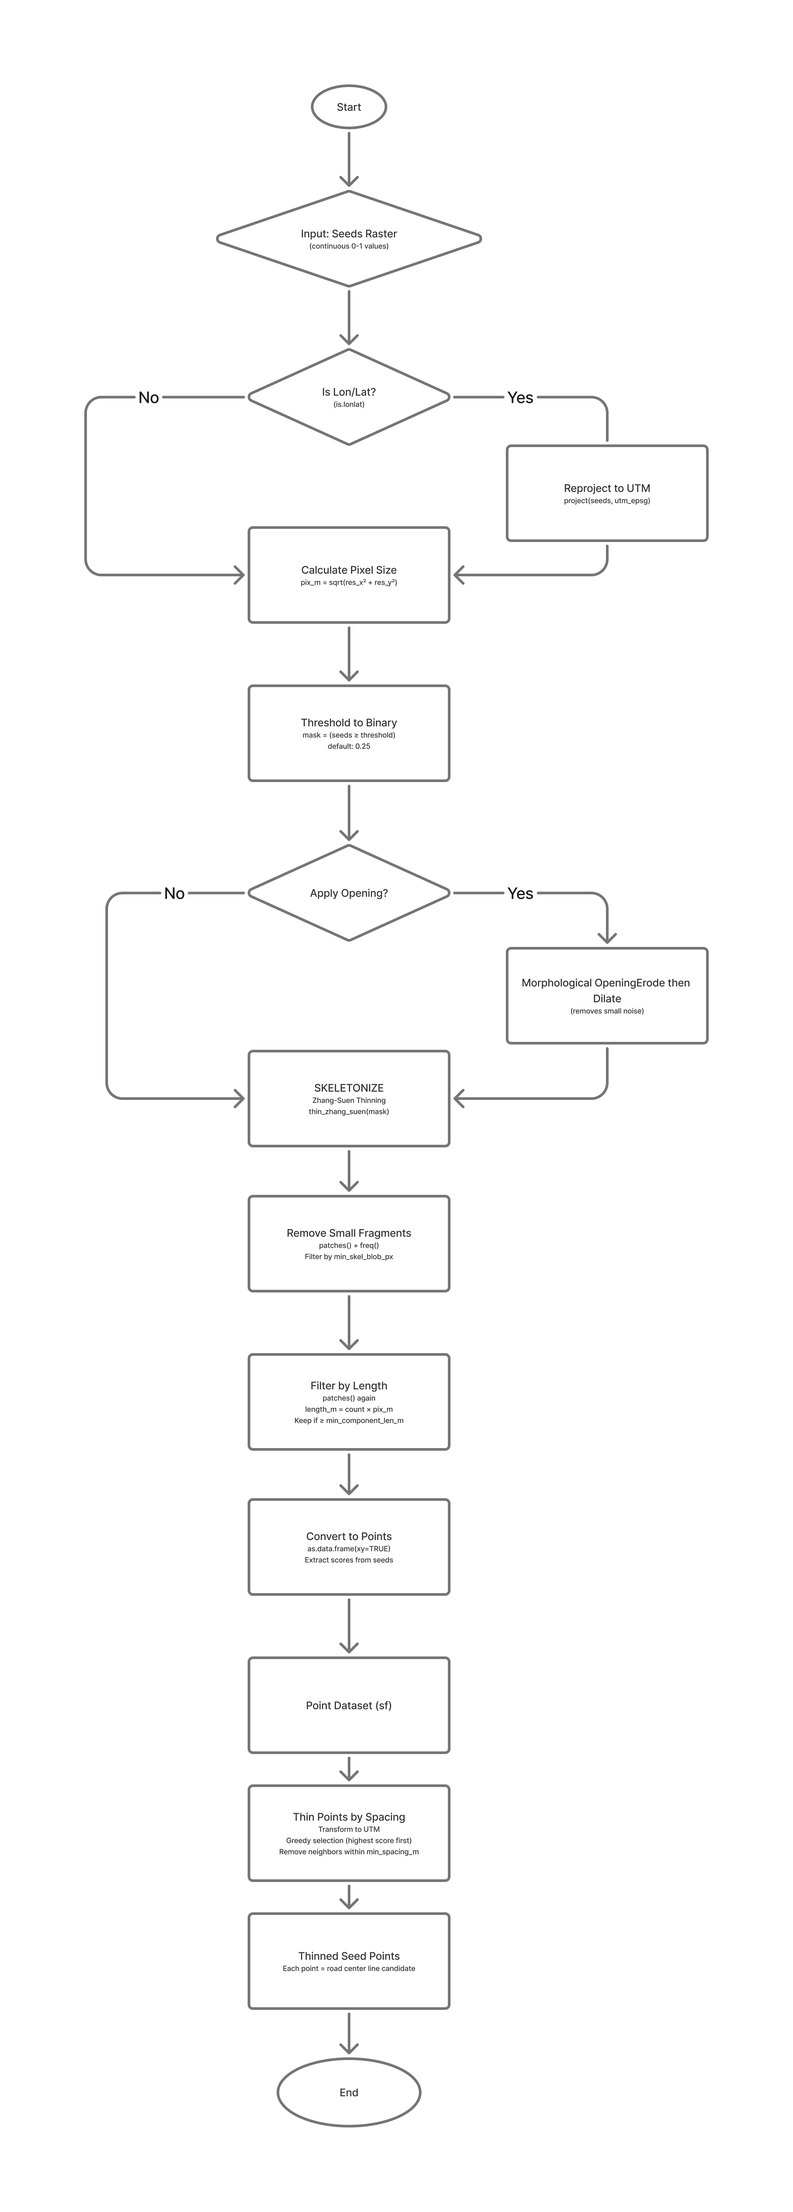
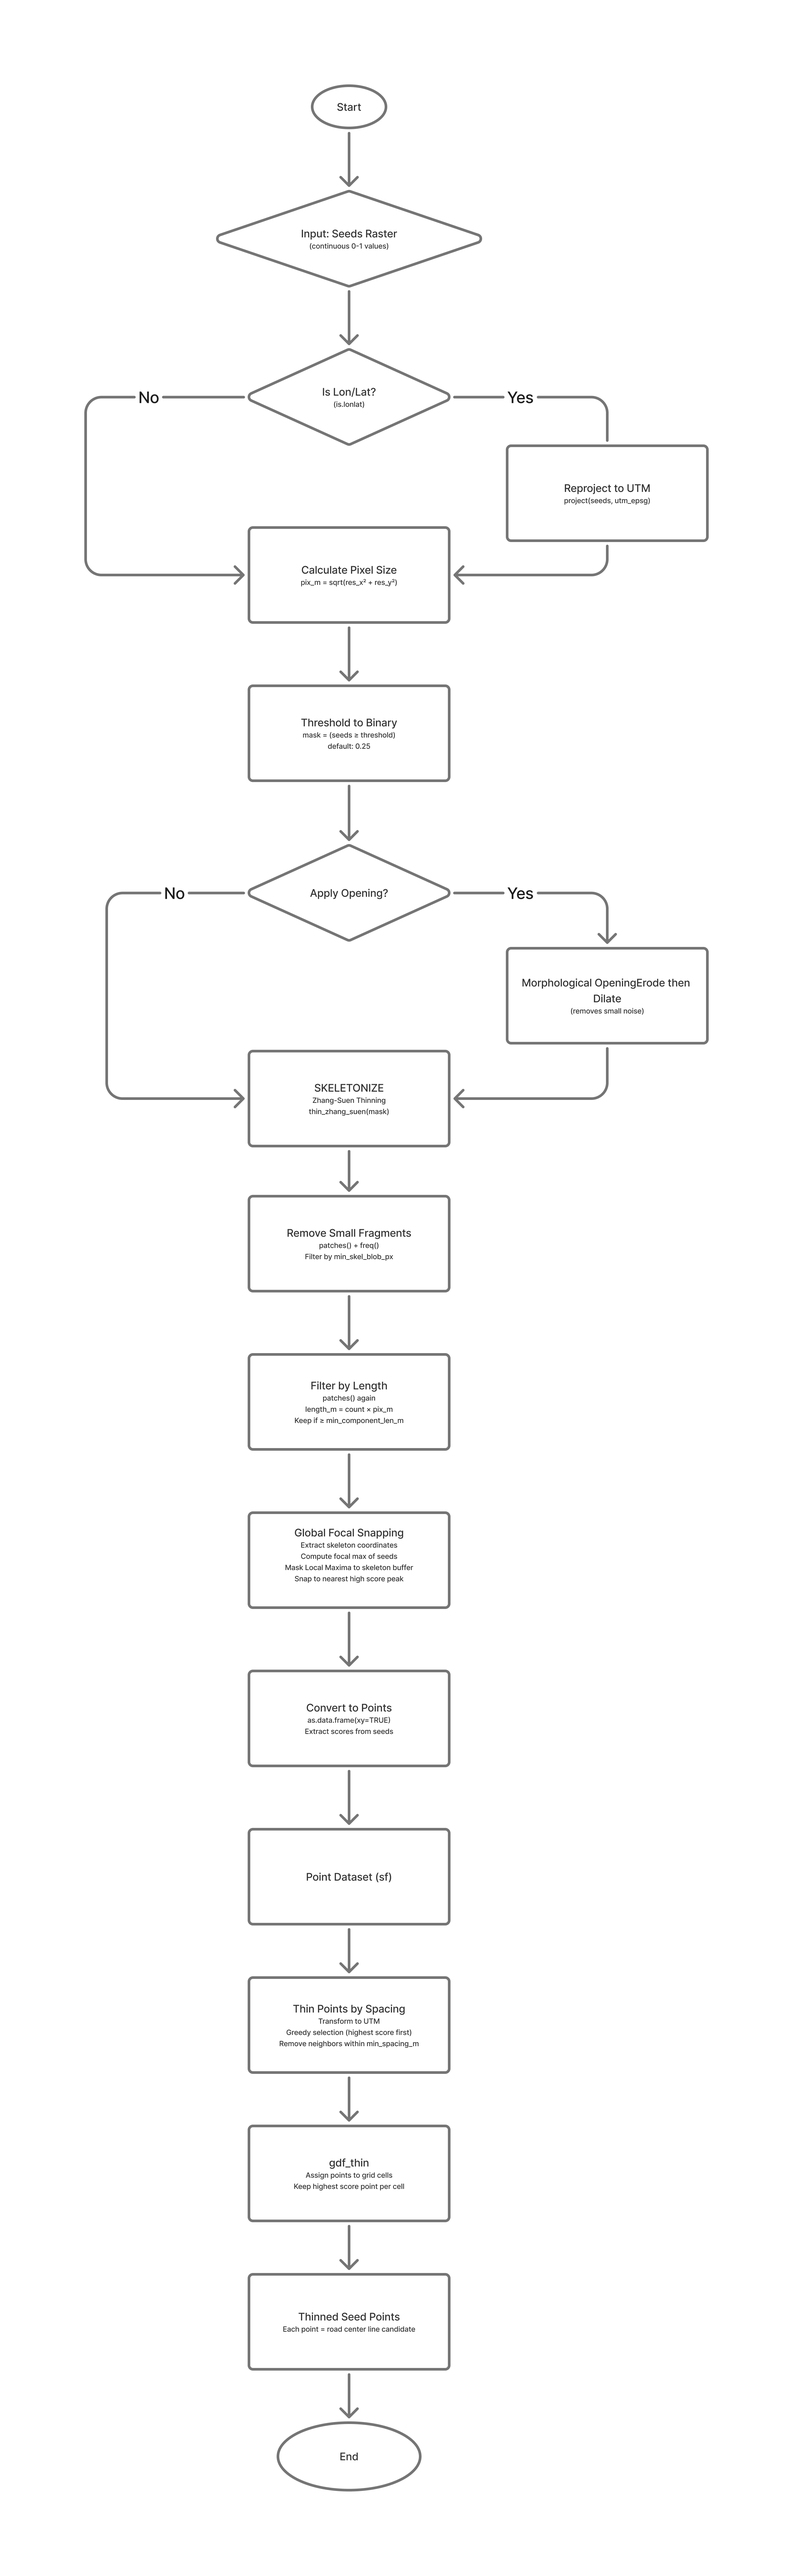
Update reame.md for current RasterToVector process

diff --git a/README.md b/README.md
@@ -72,19 +72,6 @@ project/
 ```
 
 ---
-
-### Configuration for createSeeds.R
-
-Edit the top of `createSeeds.R` to set your paths and input file:
-
-```r
-dir.in   <- "path/to/input"
-dir.out  <- "path/to/output"
-dir.tmp  <- "path/to/tmp"
-file_name <- "your_dem.tif"
-```
-
----
 ### Output from createSeeds.R
 
 `seeds_combined.tif` — a single-band raster co-registered with the input DEM, with pixel values in [0, 1] representing road likelihood. Higher values indicate stronger convergent evidence of road presence across slope, roughness, and curvature edge features.
@@ -92,45 +79,59 @@ file_name <- "your_dem.tif"
 
 ## Stage 2 — Raster to Vector (`RasterToVector.R`)
 
-Converts the `seeds` probability raster into a **thinned set of georeferenced seed points** (GeoJSON) suitable for use as inputs to least-cost path analysis or manual digitizing. The core function is `seeds_to_points()`.
+Converts the `seeds` probability raster into a **thinned set of georeferenced seed points** (GeoJSON) that are snapped to true road-centre peaks. These points serve as start/end node candidates for subsequent least-cost path analysis. The core function is `seeds_to_points()`.
 
 ### Workflow
 ![RasterToVector workflow diagram](images/rasterToVector.png)
 
 ### Theory
 
-#### Thresholding & Binary Mask
+#### 1. Thresholding & Binary Mask
 
-The continuous seed surface is binarized at a user-defined `prob_threshold` (default 0.3). Pixels at or above this value are treated as candidate road pixels. An optional morphological **opening** (erosion followed by dilation) can be applied to remove isolated noise pixels before skeletonization.
+The continuous seed surface is binarized at a user-defined `prob_threshold`. Pixels at or above this value are treated as candidate road pixels. An optional morphological **opening** (erosion via `focal min` followed by dilation via `focal max`) can be applied to remove isolated noise pixels before skeletonization.
 
-#### Skeletonization (Zhang-Suen Thinning)
+#### 2. Skeletonization (Zhang-Suen Thinning)
 
-The binary road mask is reduced to a **1-pixel-wide skeleton** using the Zhang-Suen iterative thinning algorithm (sourced from `skeletonize.R`). This collapses road polygons to their centrelines, ensuring that downstream point sampling captures road position rather than road width.
+The binary road mask is reduced to a **1-pixel-wide skeleton** using the Zhang-Suen iterative thinning algorithm (sourced from `skeletonize.R`). This collapses road-width blobs to their centrelines, ensuring that downstream point sampling captures road position rather than road width.
 
-#### Connected Component Filtering
+#### 3. Connected Component Filtering
 
-The skeleton is labelled into 8-connected components. Two filters are applied sequentially:
+The skeleton is labelled into 8-connected components via `terra::patches()`. Two filters are applied sequentially:
 
-1. **Minimum blob size** (`min_skel_blob_px`): removes isolated skeleton pixels likely caused by noise.
-2. **Minimum component length** (`min_component_len_m`): removes short skeleton fragments unlikely to represent actual roads. Component length is estimated as pixel count × pixel diagonal (in metres).
+1. **Minimum blob size** (`min_skel_blob_px`): removes isolated skeleton pixels caused by noise.
+2. **Minimum component length** (`min_component_len_m`): removes short fragments unlikely to represent actual roads. Length is estimated as `pixel count × pixel diagonal (m)`.
 
-#### Score-Weighted Point Thinning
+#### 4. Global Focal Snapping
 
-Skeleton pixels are converted to point geometries and each point is assigned the corresponding seed score from the original raster. Points are then **greedily thinned** to a minimum spacing of `min_spacing_m` metres: points are processed in descending score order, and any neighbour within the spacing radius is suppressed. This produces a spatially distributed set of high-confidence seed points using a fixed-radius nearest-neighbour index (`dbscan::frNN`) for efficiency.
+Raw skeleton pixels sit on the thinned centreline of the *thresholded mask*, which may not coincide with the highest-probability pixel (the true road centre) in the original `seeds` raster. Snapping corrects this:
+
+1. A focal maximum filter is applied to the full `seeds` raster with a window of `(snap_radius × 2) + 1` pixels, identifying local intensity peaks.
+2. Local maxima are masked to a buffer around the skeleton (radius = `snap_radius + 1` pixels) to restrict the search space and keep RAM usage low.
+3. Each skeleton point is matched to its nearest local maximum using `RANN::nn2()`, shifting it onto the highest-confidence road-centre pixel within the search window.
+
+This produces `xy_snapped` — skeleton-derived points relocated to true road peaks — which are used as the candidate start/end nodes for path routing.
+
+#### 5. Grid-Based Greedy Thinning
+
+To produce a spatially uniform set of seed nodes, points are thinned using a **grid-cell approach**:
+
+1. All snapped points are projected to UTM (EPSG:32610) for metric coordinates.
+2. Each point is assigned to a grid cell of size `min_spacing_m × min_spacing_m` metres using `floor(x / min_spacing_m)`.
+3. Within each cell, only the point with the **highest seed score** is retained.
+
+This is equivalent to greedy thinning with a regular spacing guarantee, but runs in O(n) time without a nearest-neighbour search, making it efficient on large skeletons.
 
 #### CRS Handling
 
-If the input raster is in geographic coordinates (lon/lat), it is automatically reprojected to the appropriate **UTM zone** (derived from the raster centroid) before any metric operations. Output points are re-projected back to WGS84 (EPSG:4326) before saving.
+If the input raster is in geographic coordinates (lon/lat), it is automatically reprojected to the appropriate **UTM zone** (derived from the raster centroid) before any metric operations. Output points are written in their projected CRS.
 
 ### Dependencies
 
 | Package | Purpose |
 |---|---|
-| `terra` | Raster operations, coordinate extraction |
+| `terra` | Raster operations, focal filtering, coordinate extraction |
 | `sf` | Vector I/O, CRS transforms, GeoJSON output |
-| `dbscan` | Fixed-radius nearest-neighbour search for point thinning |
-
-`skeletonize.R` (local source) must be present and export `thin_zhang_suen()`.
+| `RANN` | Fast nearest-neighbour search (`nn2`) for snapping |
 
 ### Configuration
 
@@ -138,16 +139,17 @@ Key parameters in the `seeds_to_points()` call:
 
 | Parameter | Default | Description |
 |---|---|---|
-| `prob_threshold` | `0.25` | Minimum seed score to include a pixel |
-| `do_opening` | `FALSE` | Apply morphological opening before skeletonization |
-| `opening_size` | `3` | Kernel size for opening (pixels) |
-| `min_skel_blob_px` | `1` | Minimum skeleton fragment size (pixels) |
-| `min_component_len_m` | `1.0` | Minimum skeleton component length (metres) |
-| `min_spacing_m` | `8.0` | Minimum spacing between output points (metres) |
+| `prob_threshold` | — | Minimum seed score to include a pixel |
+| `do_opening` | — | Apply morphological opening before skeletonization |
+| `opening_size` | — | Kernel size for opening (pixels) |
+| `min_skel_blob_px` | — | Minimum skeleton fragment size (pixels) |
+| `min_component_len_m` | — | Minimum skeleton component length (metres) |
+| `min_spacing_m` | — | Grid cell size for thinning (metres) |
+| `snap_radius` | `4` | Search radius (pixels) for road-centre snapping |
 
 ### Output
 
-`seed_points.geojson` — a point layer in WGS84 with a `score` attribute (the original seed probability at each point location). Point density is controlled by `min_spacing_m`.
+`seed_points.geojson` — a point layer with a `score` attribute (the seed probability at each snapped location). Points represent candidate road start/end nodes, spatially distributed at approximately `min_spacing_m` metre intervals and snapped to the highest-probability road-centre pixels.
 
 ## Notes
 
